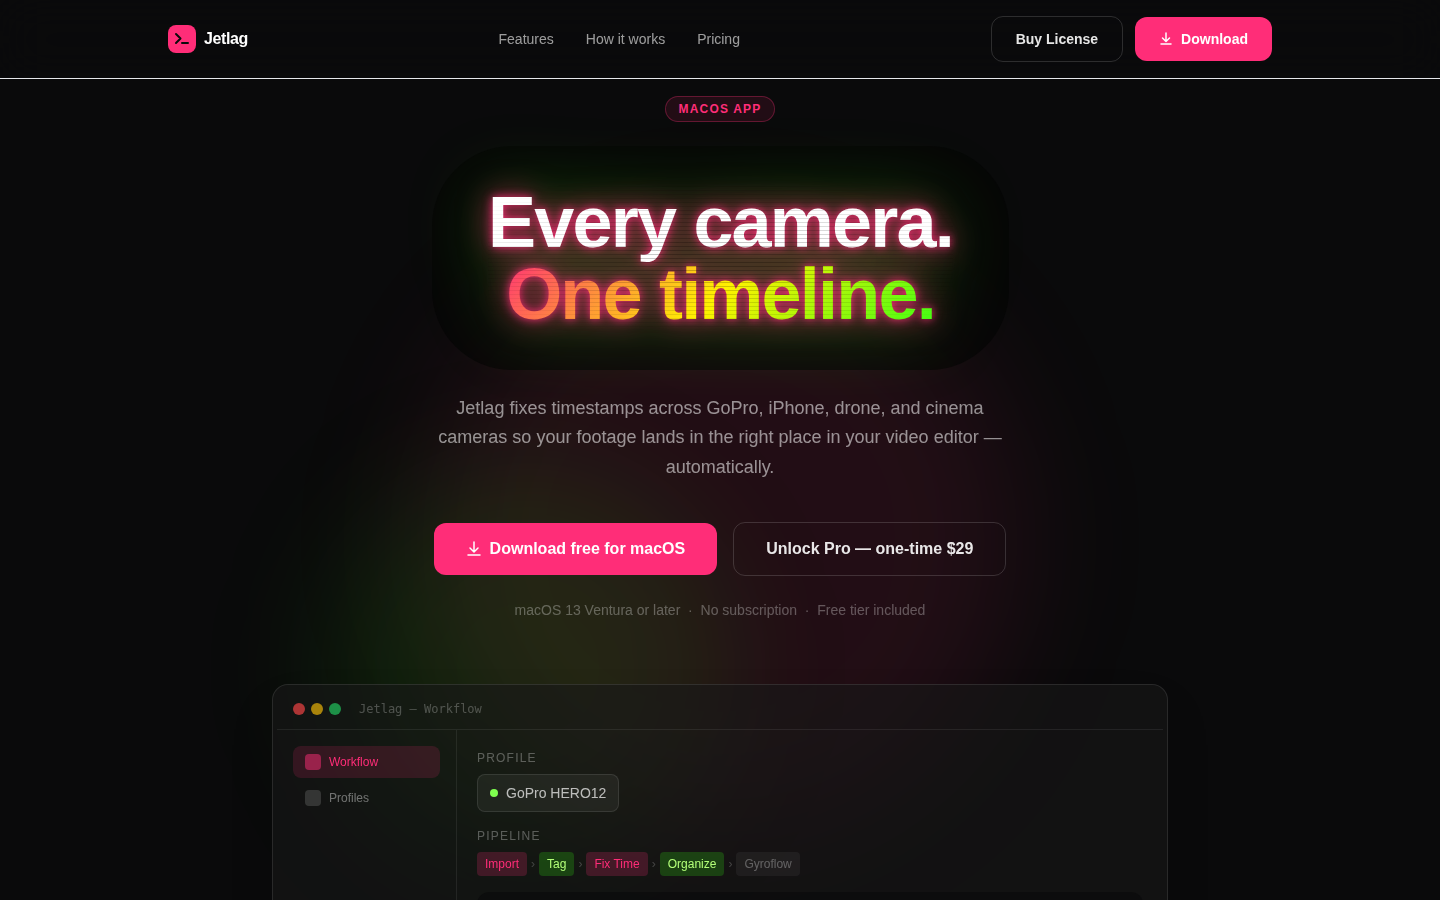
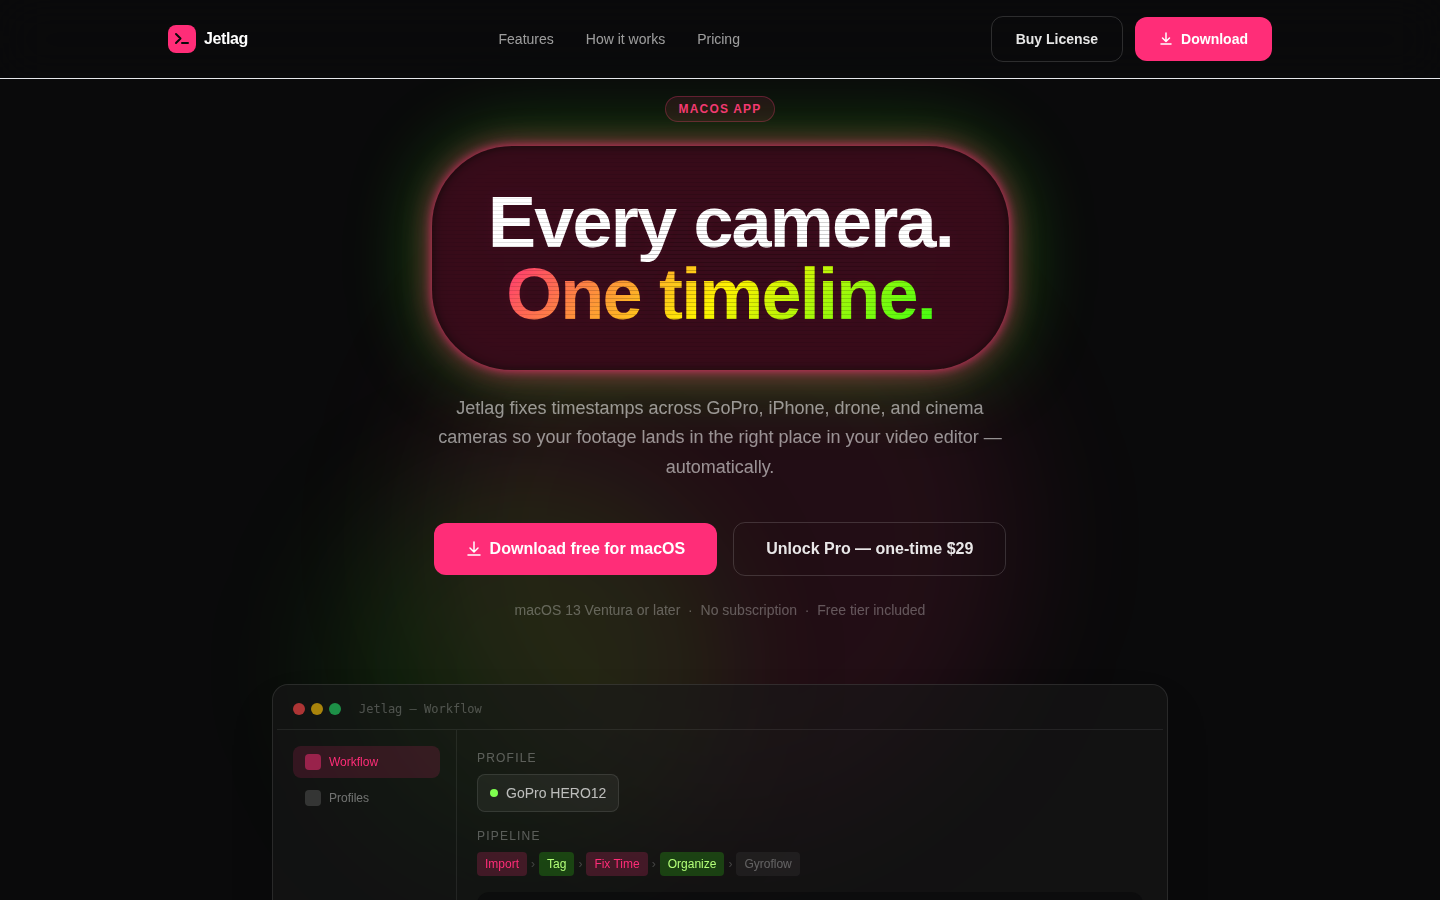
restyle CRT box: padding and border-radius on h1, not wrapper
The headline-wrap wrapper was creating a separate black rectangle
on top of the existing vhs-scanlines glow box. The correct approach
is to expand the h1 itself — it already has overflow:hidden (so
border-radius clips the scanlines) and filter:drop-shadow (so the
neon glow wraps the box shape, not just the text characters).

- .headline-wrap h1: padding 2.5rem/3.5rem, border-radius 5rem, dark bg
- .headline-wrap: reverted to position:relative only
- no extra compositor layers, no z-index, consistent on all browsers

https://claude.ai/code/session_01GFL5eQ5ZBVp428GqbWZWuA

Changed region(s): [[0.2812, 0.1244, 0.7188, 0.4356]]

diff --git a/web/src/style.css b/web/src/style.css
@@ -96,11 +96,16 @@
     background-color: rgba(255, 255, 255, 0.04);
   }
 
-  /* CRT-screen box: dark background, heavy corner radius, generous padding */
   .headline-wrap {
     position: relative;
+  }
+
+  /* CRT-screen box: padding and heavy border-radius applied to the h1 itself so the
+     existing vhs-scanlines (overflow:hidden) and spray-paint (drop-shadow) already
+     wrap around the box shape — no extra wrapper needed */
+  .headline-wrap h1 {
     padding: 2.5rem 3.5rem;
-    background: rgba(4, 4, 4, 0.65);
+    background: rgba(0, 0, 0, 0.75);
     border-radius: 5rem;
   }
 
